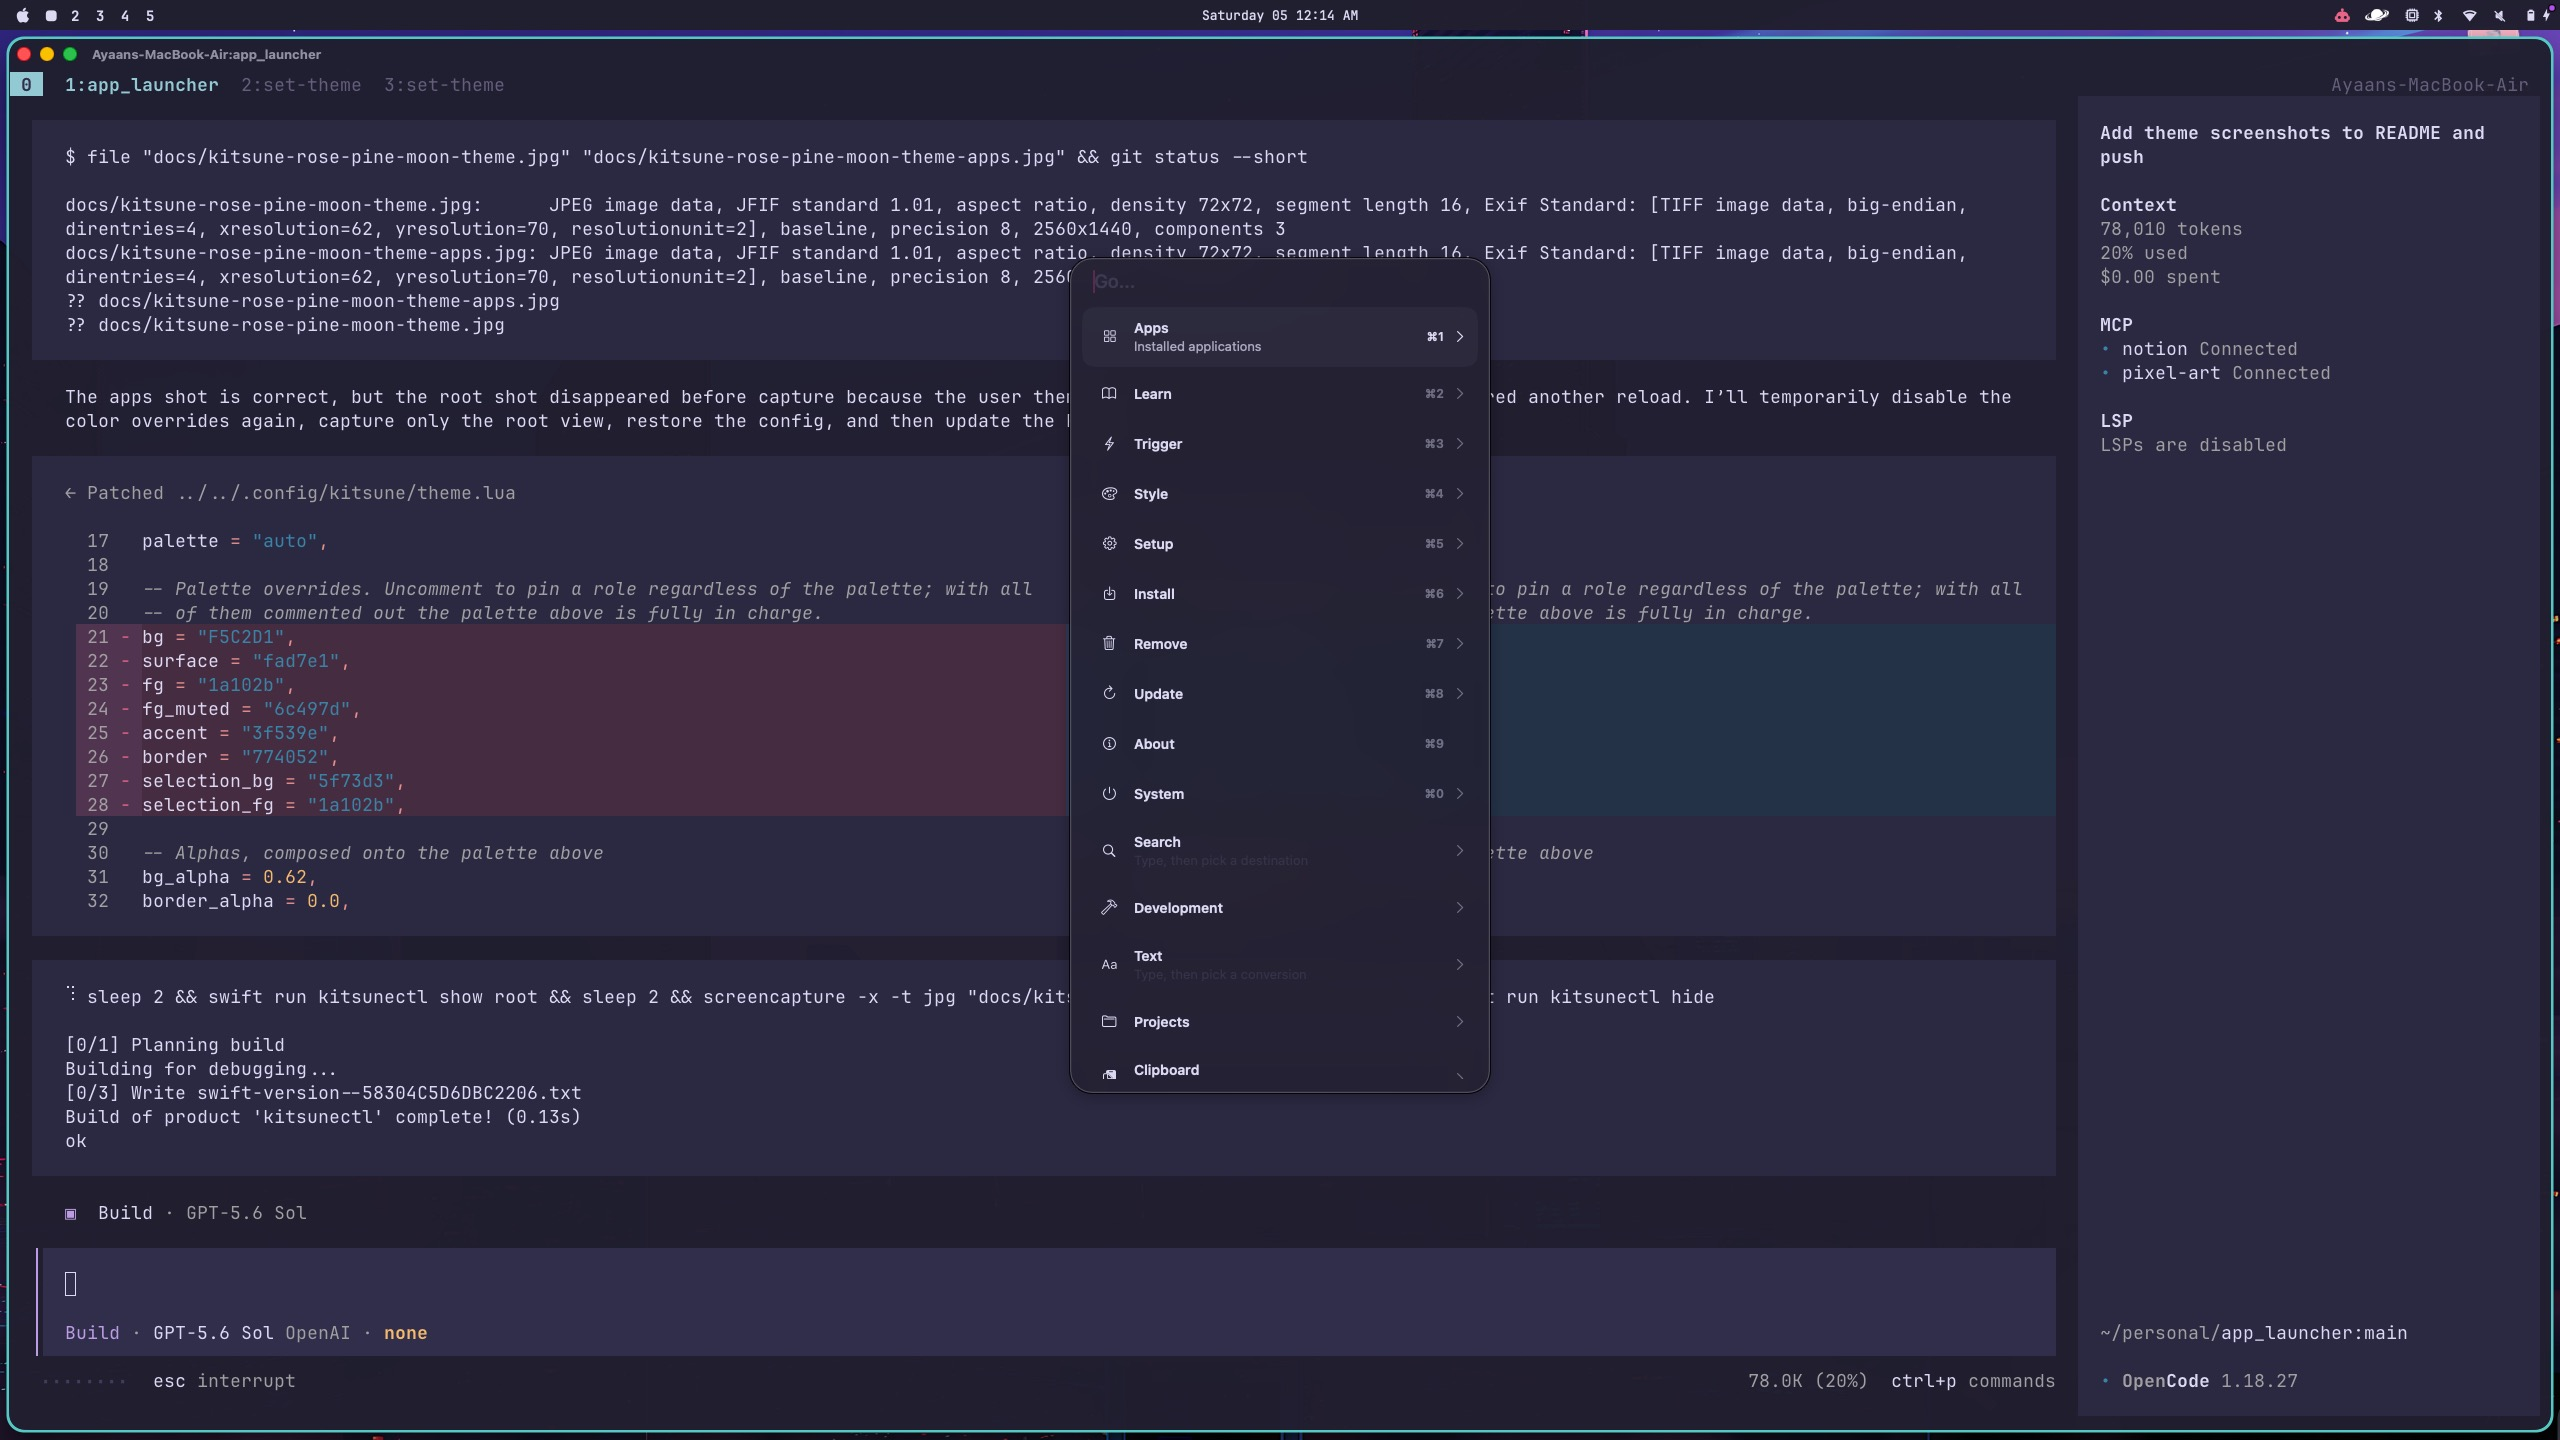
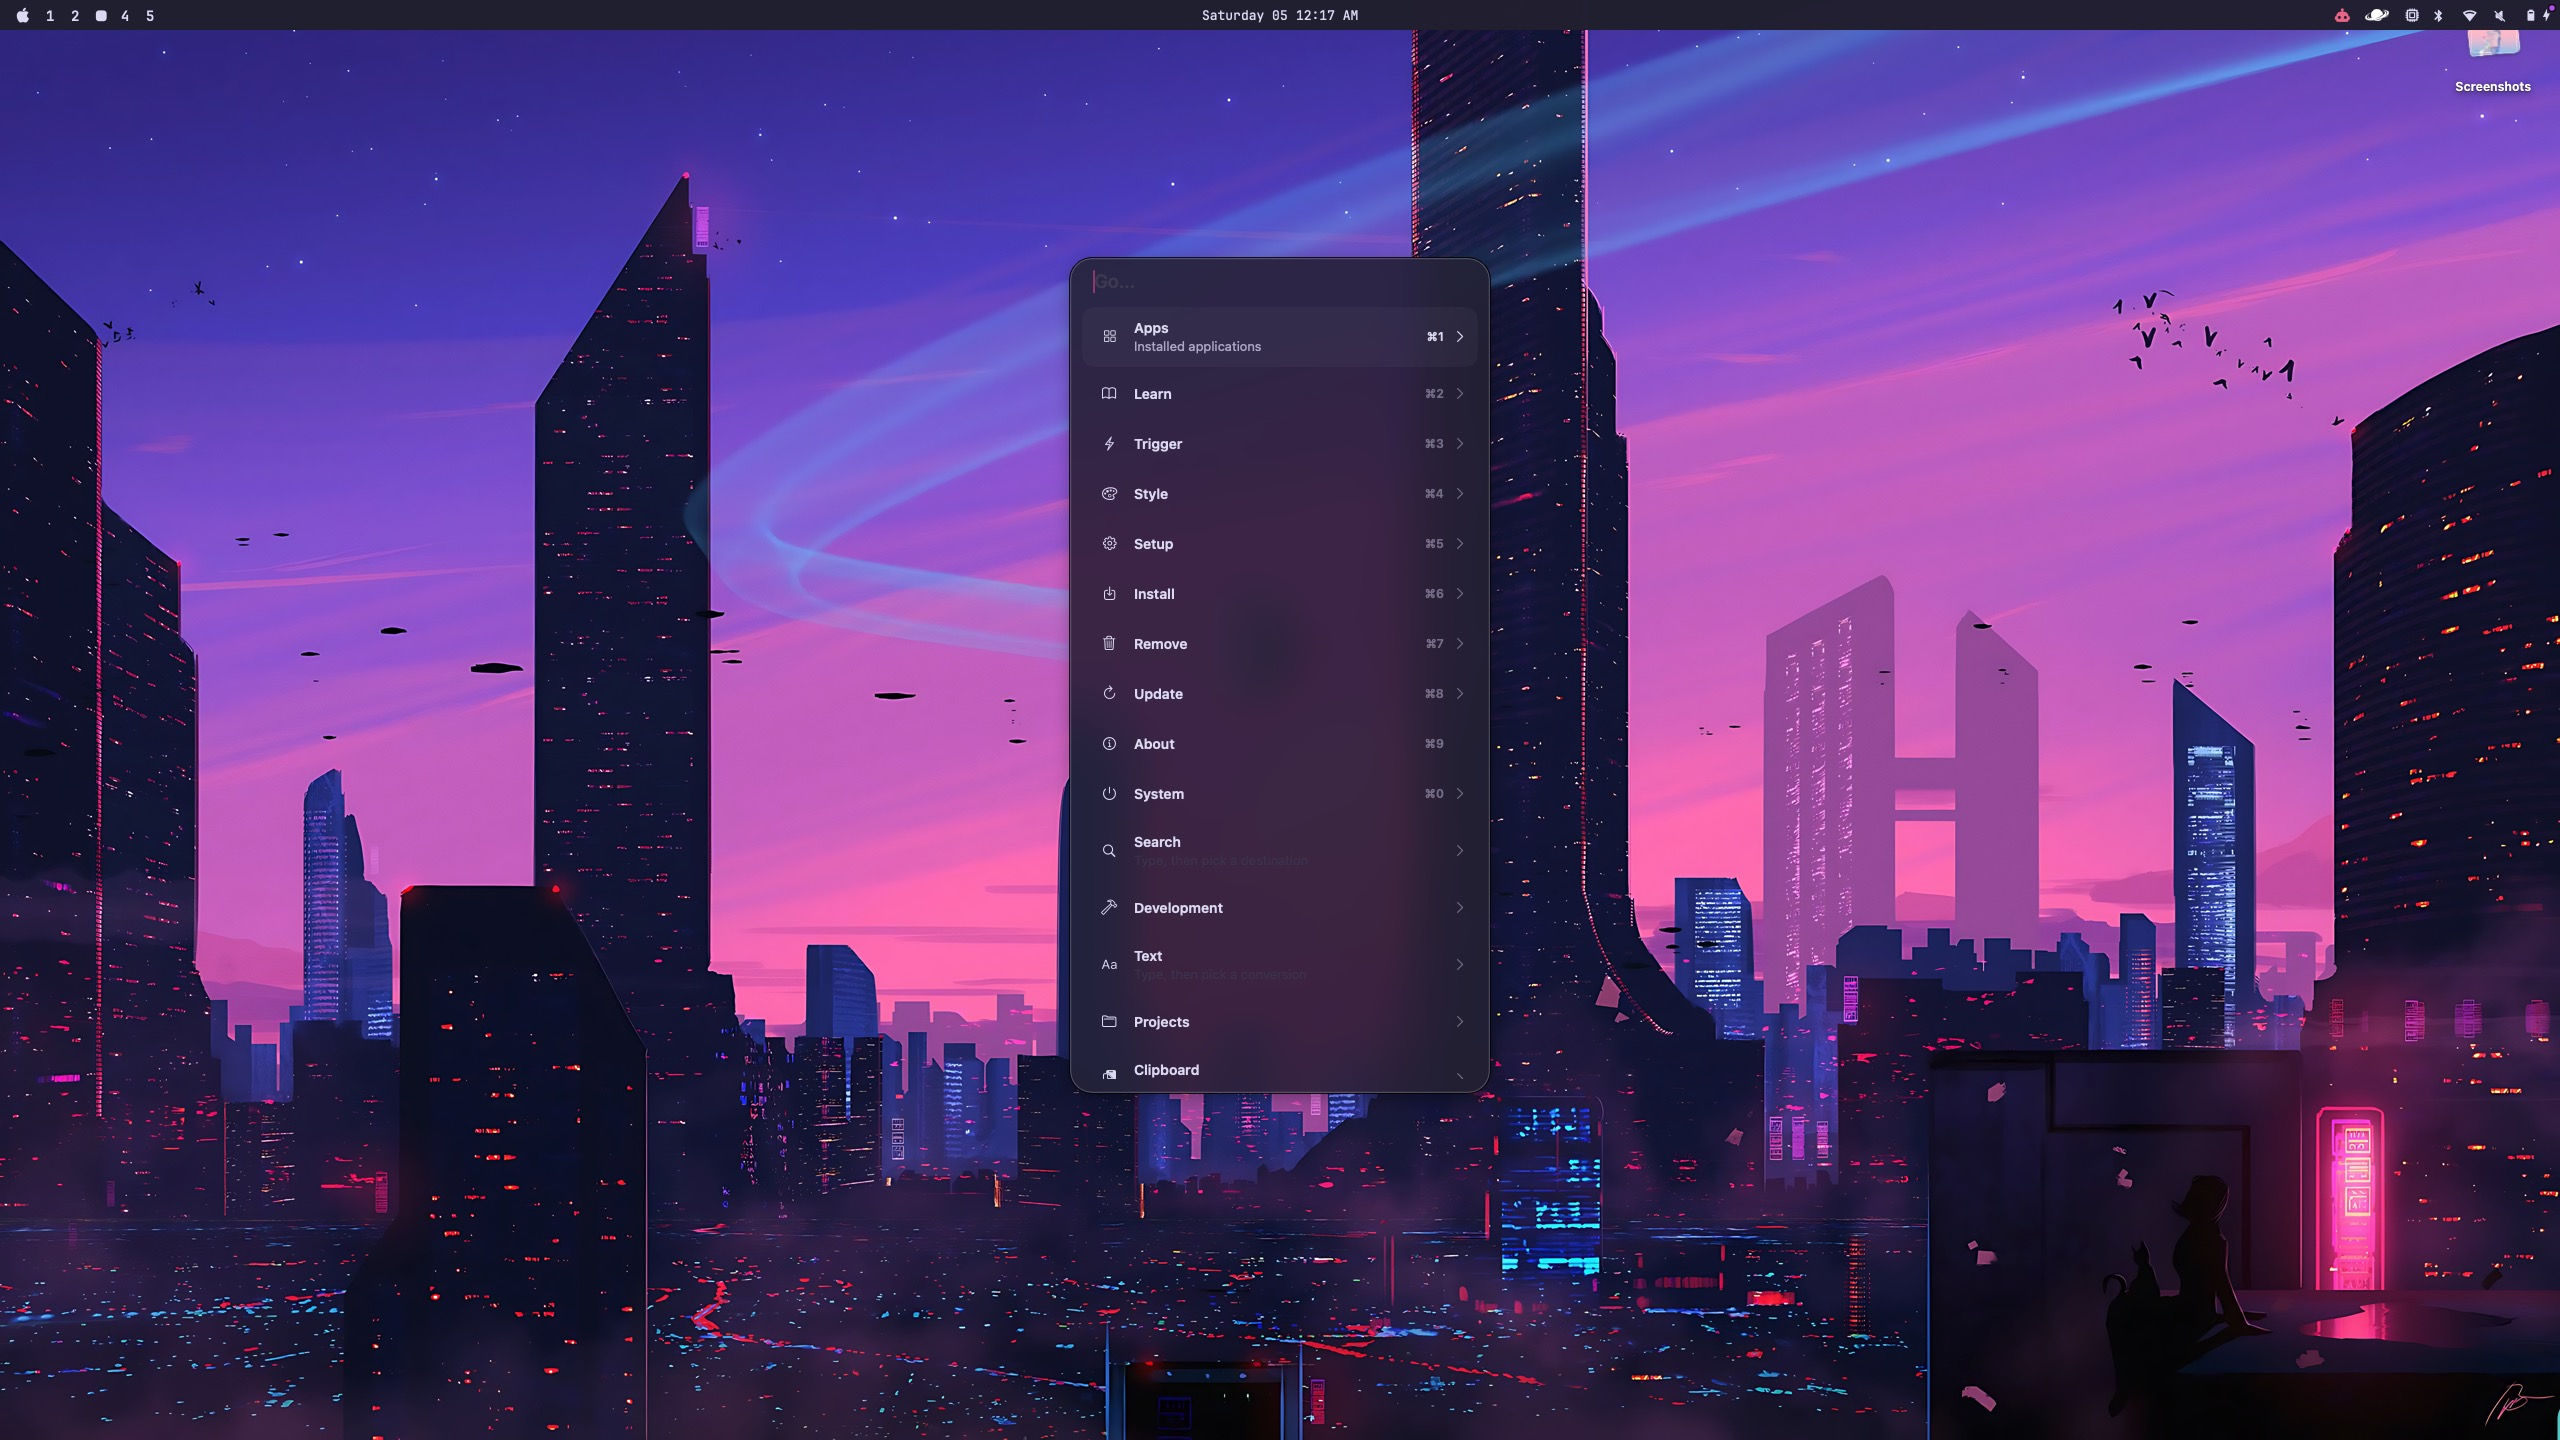
Polish README screenshots

diff --git a/README.md b/README.md
@@ -4,17 +4,18 @@ Kitsune is a resident macOS launcher: a warm, borderless command panel that open
 global hotkey, in the shape of the Omarchy menu — apps, a nested command tree, search
 providers, and system actions, all fuzzy-searchable from one field.
 
-| Launcher | Search |
-| --- | --- |
-| ![Kitsune launcher](docs/kitsune-demo.jpg) | ![Kitsune search](docs/kitsune-search-demo.jpg) |
-
-| Pink theme | Pink theme apps |
-| --- | --- |
-| ![Kitsune pink theme](docs/kitsune-pink-theme.jpg) | ![Kitsune pink theme apps](docs/kitsune-pink-theme-apps.jpg) |
-
-| Rose Pine Moon | Rose Pine Moon apps |
-| --- | --- |
-| ![Kitsune Rose Pine Moon theme](docs/kitsune-rose-pine-moon-theme.jpg) | ![Kitsune Rose Pine Moon theme apps](docs/kitsune-rose-pine-moon-theme-apps.jpg) |
+<p>
+  <img src="docs/kitsune-demo.jpg" alt="Kitsune launcher" width="49%">
+  <img src="docs/kitsune-search-demo.jpg" alt="Kitsune search" width="49%">
+</p>
+<p>
+  <img src="docs/kitsune-pink-theme.jpg" alt="Kitsune pink theme" width="49%">
+  <img src="docs/kitsune-pink-theme-apps.jpg" alt="Kitsune pink theme apps" width="49%">
+</p>
+<p>
+  <img src="docs/kitsune-rose-pine-moon-theme.jpg" alt="Kitsune Rose Pine Moon theme" width="49%">
+  <img src="docs/kitsune-rose-pine-moon-theme-apps.jpg" alt="Kitsune Rose Pine Moon theme apps" width="49%">
+</p>
 
 The split that makes Kitsune hackable: **AppKit owns everything native — the panel,
 rendering, the app index, fuzzy matching, navigation, the hotkey and IPC — and an
